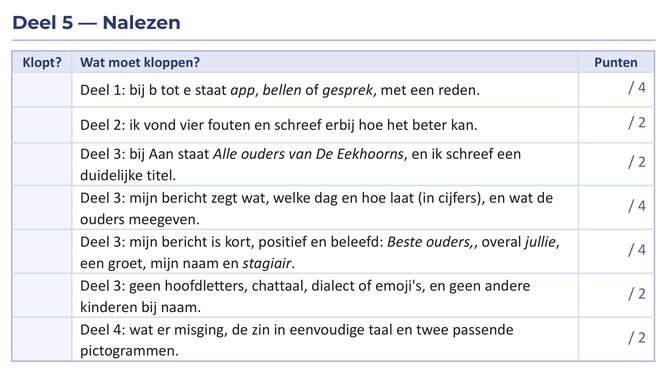
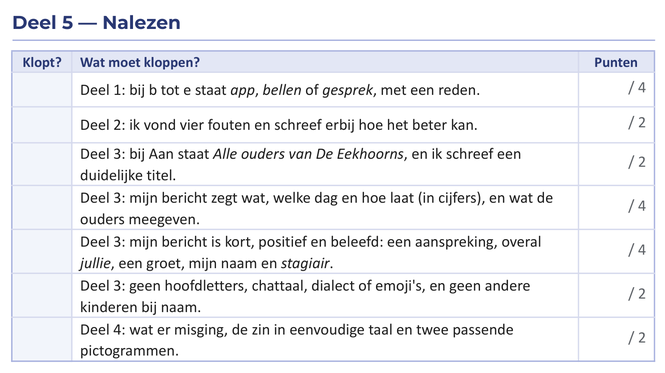
Dubbele leestekens in het werkdocument; intro stap 5 en Vast? aangepast

Changed region(s): [[0.1203, 0.6783, 0.5113, 0.7373], [0.5714, 0.6193, 0.8421, 0.6783]]

diff --git a/index.html b/index.html
@@ -142,7 +142,7 @@
           <ol class="vast">
             <li><svg class="ic" aria-hidden="true"><use href="#i-list"/></svg><span>Klik in de stap op <em>Toon stapjes</em></span></li>
             <li class="ai-hulp"><svg class="ic" aria-hidden="true"><use href="#i-spark"/></svg><span>AI-hulp in de opdracht</span></li>
-            <li><svg class="ic" aria-hidden="true"><use href="#i-hand"/></svg><span>Je leraar: typ onder <span class="ui">Privéreacties</span> je vraag en klik op <span class="ui">Posten</span></span></li>
+            <li><svg class="ic" aria-hidden="true"><use href="#i-hand"/></svg><span>Je leraar: typ onder <span class="ui">Privéreacties</span> je vraag en klik op <span class="ui">Posten</span>. Je leraar leest het later.</span></li>
           </ol>
           <p class="nodig-noot">Kom je echt niet verder? Ga naar de volgende stap. Lever op het einde toch in.</p>
 
@@ -350,7 +350,7 @@
       <article class="card">
         <header class="card-head"><div class="tags"><span class="tag tag-step">Stap 5</span><span class="tag tag-where"><img class="logo" src="assets/logos/docs.svg" alt=""> Werkdocument, deel 4</span></div><h2 id="h-5">Voor elke ouder</h2></header>
         <div class="card-body">
-          <p class="intro">Niet elke ouder leest goed Nederlands. De Speelboom-app heeft een vertaalknop. Kijk wat die deed met een zin van Kobe.</p>
+          <p class="intro">Niet elke ouder leest goed Nederlands. De Speelboom-app heeft daarom een vertaalknop. Die werkt zoals Google Vertalen. Kijk wat Google Vertalen deed met een zin van Kobe.</p>
 <div class="todo-box"><div class="todo-head"><h3><svg class="ic" aria-hidden="true"><use href="#i-list"/></svg> Wat moet je doen?</h3><div class="modus" role="group" aria-label="Hoe wil je de uitleg?"><button type="button" class="modus-btn" data-modus="stap" aria-pressed="true">Stap voor stap</button><button type="button" class="modus-btn" data-modus="kort" aria-pressed="false">Kort</button></div></div><ol class="doe"><li><span class="doe-tekst">Zoek in de vertalingen hieronder <strong>twee dingen</strong> die niet klopten.</span></li><li><details class="stapjes" open><summary><span class="doe-tekst">Beantwoord in <strong>deel 4</strong> vraag <strong>a</strong>.</span><span class="stapjes-knop" aria-hidden="true"></span></summary><ol class="klein"><li><p>Scroll naar <strong>Deel 4</strong>. Typ in het vak onder <em>a</em> de twee dingen die misgingen.</p><img class="mini" src="assets/stapjes/s5-deel4.png" alt="Deel 4, vraag a, met het vak voor je antwoord in een rood kader." loading="lazy"></li></ol></details></li><li><details class="stapjes" open><summary><span class="doe-tekst">Schrijf in <strong>b</strong> de zin opnieuw, in eenvoudige taal.</span><span class="stapjes-knop" aria-hidden="true"></span></summary><ol class="klein"><li><p>Klik in het vak onder <em>b</em>. Schrijf de zin van Kobe opnieuw.<span class="sub">Korte woorden, een korte zin, het uur in cijfers en geen dialect.</span></p><img class="mini" src="assets/stapjes/s5-zin.png" alt="Deel 4, vraag b, met het vak voor je antwoord in een rood kader." loading="lazy"></li></ol></details></li><li><details class="stapjes" open><summary><span class="doe-tekst">Zoek twee pictogrammen die bij <strong>jouw bericht</strong> passen. Typ in <strong>c</strong> hun letters.</span><span class="stapjes-knop" aria-hidden="true"></span></summary><ol class="klein"><li><p>Kijk naar de pictogrammen A tot F hieronder. Welke twee horen bij wat je in je bericht schreef?</p></li><li><p>Klik in het vak onder <em>c</em>. Typ de twee letters.</p><img class="mini" src="assets/stapjes/s5-pict.png" alt="Deel 4, vraag c, met het vak voor je antwoord in een rood kader." loading="lazy"></li></ol></details></li><li><span class="doe-tekst">Klik hieronder op <strong>Kijk na</strong> en vergelijk met jouw zin.</span></li></ol></div>
           <div class="tip"><svg class="ic" aria-hidden="true"><use href="#i-bulb"/></svg><p><strong>Twijfel je over een pictogram?</strong> Past het bij iets dat in jouw bericht staat? Dan kies je het.</p></div>
           <div class="vert">

diff --git a/werkdocument/maak_werkdocumenten.py b/werkdocument/maak_werkdocumenten.py
@@ -54,7 +54,7 @@ def ouderbericht():
     # ---- Deel 2
     deel(doc, 2, "Wat is er mis met het bericht van Kobe?", nieuwe_pagina=True)
     tabel(doc, ["", "Wat is er mis?", "Hoe kan het beter?"], [
-        ("1", "Alles in hoofdletters en drie uitroeptekens: dat leest als roepen.", "Begin met *Beste ouders,*."),
+        ("1", "Alles in hoofdletters en drie uitroeptekens: dat leest als roepen.", "Begin met een aanspreking: *Beste ouders,*"),
         ("2", "", ""),
         ("3", "", ""),
         ("4", "", ""),
@@ -83,7 +83,7 @@ def ouderbericht():
         ("Deel 2: ik vond vier fouten en schreef erbij hoe het beter kan.", 2),
         ("Deel 3: bij Aan staat *Alle ouders van De Eekhoorns*, en ik schreef een duidelijke titel.", 2),
         ("Deel 3: mijn bericht zegt wat, welke dag en hoe laat (in cijfers), en wat de ouders meegeven.", 4),
-        ("Deel 3: mijn bericht is kort, positief en beleefd: *Beste ouders,*, overal *jullie*, een groet, "
+        ("Deel 3: mijn bericht is kort, positief en beleefd: een aanspreking, overal *jullie*, een groet, "
          "mijn naam en *stagiair*.", 4),
         ("Deel 3: geen hoofdletters, chattaal, dialect of emoji's, en geen andere kinderen bij naam.", 2),
         ("Deel 4: wat er misging, de zin in eenvoudige taal en twee passende pictogrammen.", 2),
